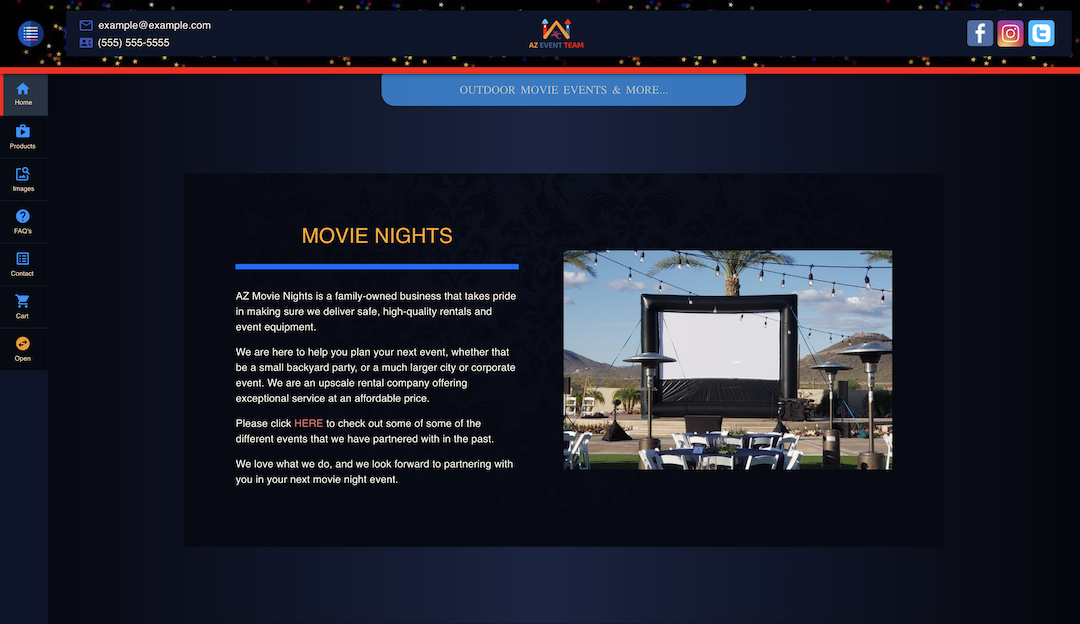
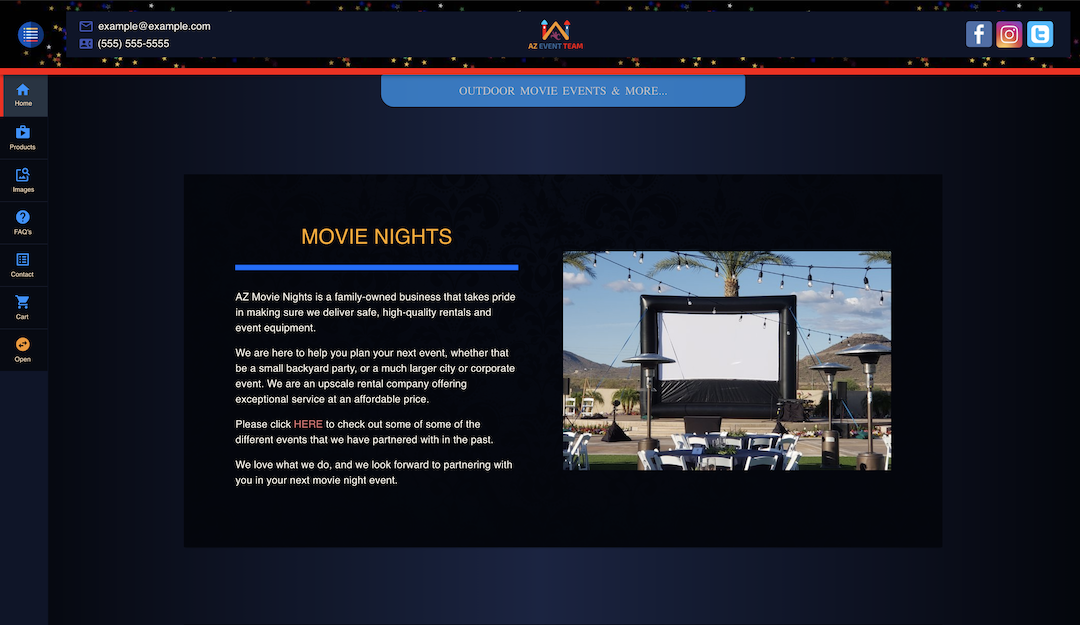
Swap out project screenshots

diff --git a/src/index.css b/src/index.css
@@ -1,5 +1,5 @@
 html {
-  background-color: #1e2123;
+  background-color: #0e0f0f;
 }
 
 body {
@@ -9,7 +9,7 @@ body {
     sans-serif;
   -webkit-font-smoothing: antialiased;
   -moz-osx-font-smoothing: grayscale;
-  background-color: #1e2123;
+  background-color: #0e0f0f;
   height: 100%;
   width: 100%;
 }
@@ -47,7 +47,7 @@ code {
 .MuiDrawer-paper {
   width: 200px !important;
   color: #555050 !important;
-  background-color: #1e2123 !important;
+  background-color: #0e0f0f !important;
 }
 
 .wrap {

diff --git a/src/Components/FeaturedProjects/FeaturedProjects.tsx b/src/Components/FeaturedProjects/FeaturedProjects.tsx
@@ -173,7 +173,7 @@ const FeaturedProject: React.FC<IProps> = ({ displayDetails }) => {
           </Box>
         </Grid>
         {/* Right Main Grid Container */}
-        <Grid item xs={12} md={10} style={{ backgroundColor: "#1e2123" }}>
+        <Grid item xs={12} md={10} style={{ backgroundColor: "#0e0f0f" }}>
           <Box>
             <Typography className={classes.techsUsedTop}>
               {featuredProjectsArr[2].techUsed}

diff --git a/src/Data/Projects.tsx b/src/Data/Projects.tsx
@@ -1,7 +1,7 @@
 import { IProject } from "../Models/IProject";
 import AzProjectImg from "./../assets/movie_nights_screenshot.png";
 import RatingsProjectImg from "./../assets/ratings_project.png";
-import PortfolioProjectImg from "./../assets/portfolio_project.png";
+import PortfolioProjectImg from "./../assets/portfolio_screenshot.png";
 
 export const featuredProjectsArr: IProject[] = [
   {

diff --git a/src/Views/Projects/ProjectsStyles.tsx b/src/Views/Projects/ProjectsStyles.tsx
@@ -2,7 +2,7 @@ import { makeStyles } from "@material-ui/core/styles";
 
 const useStyles = makeStyles((theme) => ({
   root: {
-    background: "#1e2123",
+    background: "#0e0f0f",
     padding: "100px 15% 0 15%",
     [theme.breakpoints.down("md")]: {
       padding: "100px 10% 0 10%",

diff --git a/src/App.tsx b/src/App.tsx
@@ -9,7 +9,7 @@ import Error404 from "./Views/Error404/Error404";
 
 const App = () => {
   return (
-    <Box style={{ backgroundColor: "#1e2123" }}>
+    <Box style={{ backgroundColor: "#0e0f0f" }}>
       <NavBar />
       <Switch>
         <Route exact path="/" component={Home} />

diff --git a/src/Views/Home/HomeStyles.tsx b/src/Views/Home/HomeStyles.tsx
@@ -6,7 +6,7 @@ const useStyles = makeStyles((theme) => ({
     maxWidth: 1100,
     margin: "auto",
     marginTop: 65,
-    backgroundColor: "#1e2123",
+    backgroundColor: "#0e0f0f",
     overflowX: "hidden",
     [theme.breakpoints.down("md")]: {
       width: "95%",

diff --git a/src/Components/ProjectList/ProjectListStyles.tsx b/src/Components/ProjectList/ProjectListStyles.tsx
@@ -2,7 +2,7 @@ import { makeStyles } from "@material-ui/core/styles";
 
 const useStyles = makeStyles((theme) => ({
   root: {
-    background: "#1e2123",
+    background: "#0e0f0f",
     width: "100%",
     [theme.breakpoints.down("xs")]: {
       paddingLeft: "6%",

diff --git a/src/Components/TechDisplay/TechDisplay.tsx b/src/Components/TechDisplay/TechDisplay.tsx
@@ -4,7 +4,7 @@ import { makeStyles } from "@material-ui/core/styles";
 
 const useStyles = makeStyles((theme) => ({
   iconBox: {
-    border: "2px solid #186a92",
+    border: "1px solid #2196f3c9",
     borderRadius: "50%",
     height: 120,
     width: 120,

diff --git a/src/Components/FeaturedProjects/FeaturedProjectsStyles.tsx b/src/Components/FeaturedProjects/FeaturedProjectsStyles.tsx
@@ -2,7 +2,7 @@ import { makeStyles } from "@material-ui/core/styles";
 
 const useStyles = makeStyles((theme) => ({
   root: {
-    backgroundColor: "#1e2123",
+    backgroundColor: "#0e0f0f",
     marginBottom: 100,
     marginTop: -10,
     padding: "0 3%",
